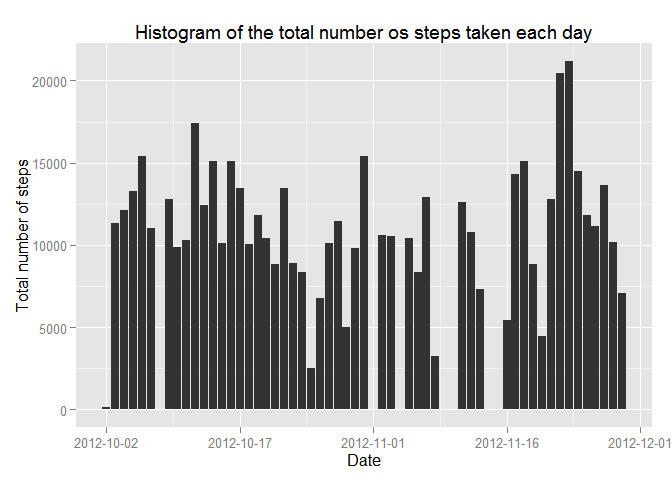
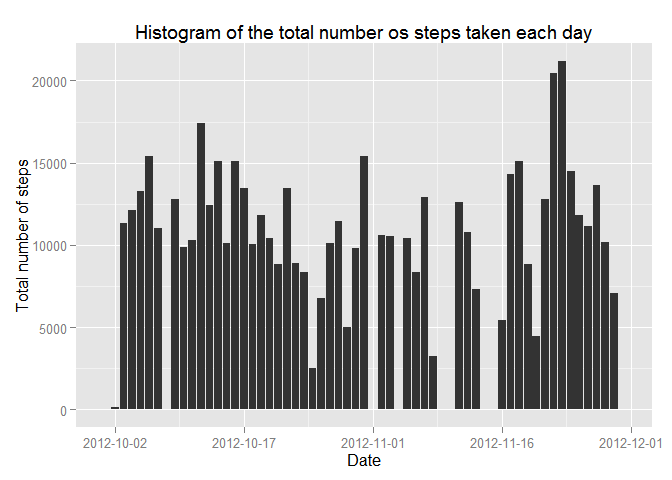
missing values excluded

diff --git a/PA1_template.html b/PA1_template.html
@@ -73,9 +73,9 @@ if (window.hljs && document.readyState && document.readyState === "complete") {
 <li>Calculate the total number of steps taken per day</li>
 </ol>
 <p>First, I loaded the plyr package for helping me to calculate the total number, since it is simpler than the split aplay method.</p>
-<p>Then I counted the total steps number. Note: I did not remove the missing values, because the assingment says to ignore and not to omit, but I think both aways are okay.</p>
+<p>Then I counted the total steps number. Note: Iremove the missing values, because the assingment says to ignore for know.</p>
 <pre class="r"><code>library(plyr)
-ddply(activity, ~ date,summarise, step.total = sum(steps)) -&gt; total</code></pre>
+ddply(activity, ~ date,summarise, step.total = sum(steps, na.rm= TRUE)) -&gt; total</code></pre>
 <ol start="2" style="list-style-type: decimal">
 <li>Make a histogram of the total number of steps taken each day</li>
 </ol>
@@ -84,14 +84,13 @@ ddply(activity, ~ date,summarise, step.total = sum(steps)) -&gt; total</code></p
 library(scales)
 p &lt;- ggplot(total, aes( x = date, y = step.total))
 p +geom_histogram( stat= &quot;identity&quot;)+ xlab(&quot;Date&quot;) + ylab(&quot;Total number of steps&quot;)+ ggtitle(&quot;Histogram of the total number os steps taken each day&quot;)+scale_x_date(breaks=date_breaks(width=&quot;15 days&quot;))</code></pre>
-<pre><code>## Warning: Removed 8 rows containing missing values (position_stack).</code></pre>
[2 lines of base64/hex data omitted]
 <ol start="3" style="list-style-type: decimal">
 <li>Calculate and report the mean and median of the total number of steps taken per day</li>
 </ol>
 <pre class="r"><code>summary(total[,2])[3:4]</code></pre>
 <pre><code>## Median   Mean 
-##  10760  10770</code></pre>
+##  10400   9354</code></pre>
 </div>
 <div id="what-is-the-average-daily-activity-pattern" class="section level2">
 <h2>What is the average daily activity pattern?</h2>
@@ -131,7 +130,7 @@ ddply(activity2, ~date,summarise, step.total = sum(steps,na.rm=T)) -&gt; total2
 p &lt;- ggplot(total2, aes( x = date, y = step.total))
 p +geom_histogram( stat= &quot;identity&quot;)+ xlab(&quot;Date&quot;) + ylab(&quot;Total number of steps&quot;)+ ggtitle(&quot;Histogram of the total number os steps taken each day&quot;)+scale_x_date(breaks=date_breaks(width=&quot;15 days&quot;))</code></pre>
[1 lines of base64/hex data omitted]
-<p>The values are almost the same as we can see here:</p>
+<p>The values are almost the same are diferent as we can see here:</p>
 <pre class="r"><code>summary(total2[,2])[3:4] -&gt; a3
 
 summary(total[,2])[3:4] -&gt; a4
@@ -140,7 +139,7 @@ summary(total[,2])[3:4] -&gt; a4
 
 print(a4)</code></pre>
 <pre><code>## Median   Mean 
-##  10760  10770</code></pre>
+##  10400   9354</code></pre>
 <pre class="r"><code>## without missing values
 print(a3)</code></pre>
 <pre><code>## Median   Mean 

diff --git a/PA1_template.md b/PA1_template.md
@@ -31,13 +31,13 @@ as.Date(activity$date) -> activity$date
 
 First, I loaded the plyr package for helping me to calculate the total number, since it is simpler than the split aplay method.
 
-Then I counted the total steps number. Note: I did not remove the missing values, because the assingment says to ignore and not to omit, but I think both aways are okay.
+Then I counted the total steps number. Note: Iremove the missing values, because the assingment says to ignore for know.
 
 
 
 ```r
 library(plyr)
-ddply(activity, ~ date,summarise, step.total = sum(steps)) -> total
+ddply(activity, ~ date,summarise, step.total = sum(steps, na.rm= TRUE)) -> total
 ```
 
 2. Make a histogram of the total number of steps taken each day
@@ -54,10 +54,6 @@ p <- ggplot(total, aes( x = date, y = step.total))
 p +geom_histogram( stat= "identity")+ xlab("Date") + ylab("Total number of steps")+ ggtitle("Histogram of the total number os steps taken each day")+scale_x_date(breaks=date_breaks(width="15 days"))
 ```
 
-```
-## Warning: Removed 8 rows containing missing values (position_stack).
-```
-
 ![](PA1_template_files/figure-html/unnamed-chunk-4-1.png) 
 
 
@@ -72,7 +68,7 @@ summary(total[,2])[3:4]
 
 ```
 ## Median   Mean 
-##  10760  10770
+##  10400   9354
 ```
 
 ## What is the average daily activity pattern?
@@ -151,7 +147,7 @@ p +geom_histogram( stat= "identity")+ xlab("Date") + ylab("Total number of steps
 
 ![](PA1_template_files/figure-html/unnamed-chunk-9-1.png) 
 
-The values are almost the same as we can see here:
+The values are almost the same are diferent as we can see here:
 
 
 
@@ -167,7 +163,7 @@ print(a4)
 
 ```
 ## Median   Mean 
-##  10760  10770
+##  10400   9354
 ```
 
 ```r
